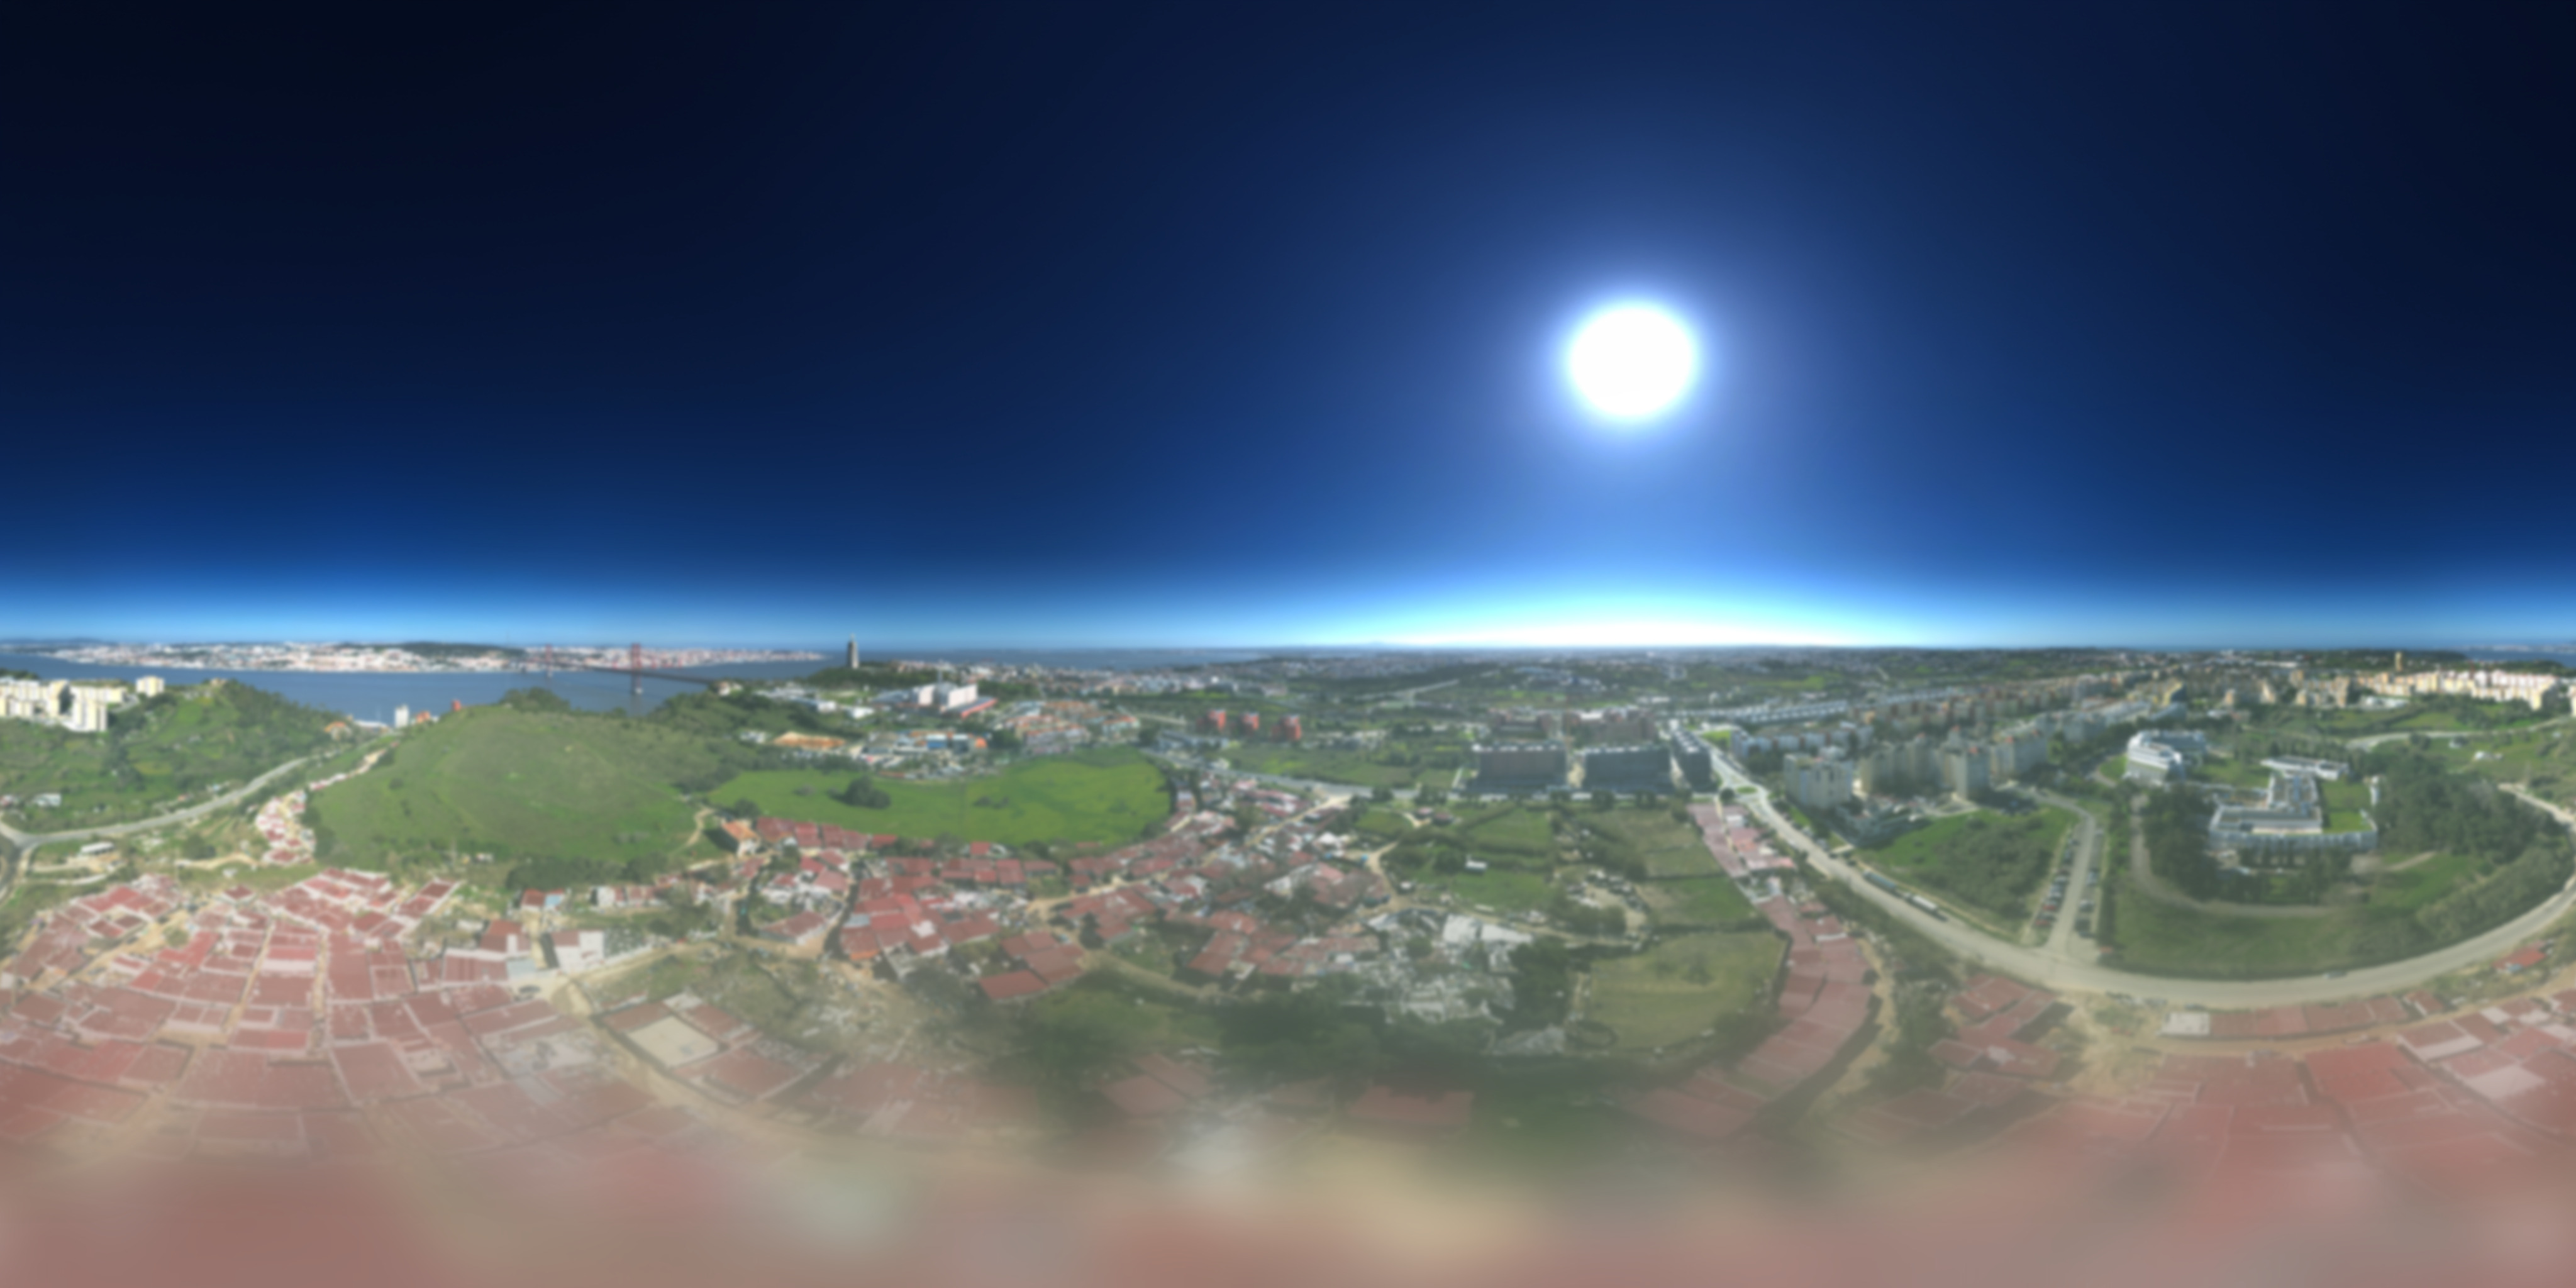
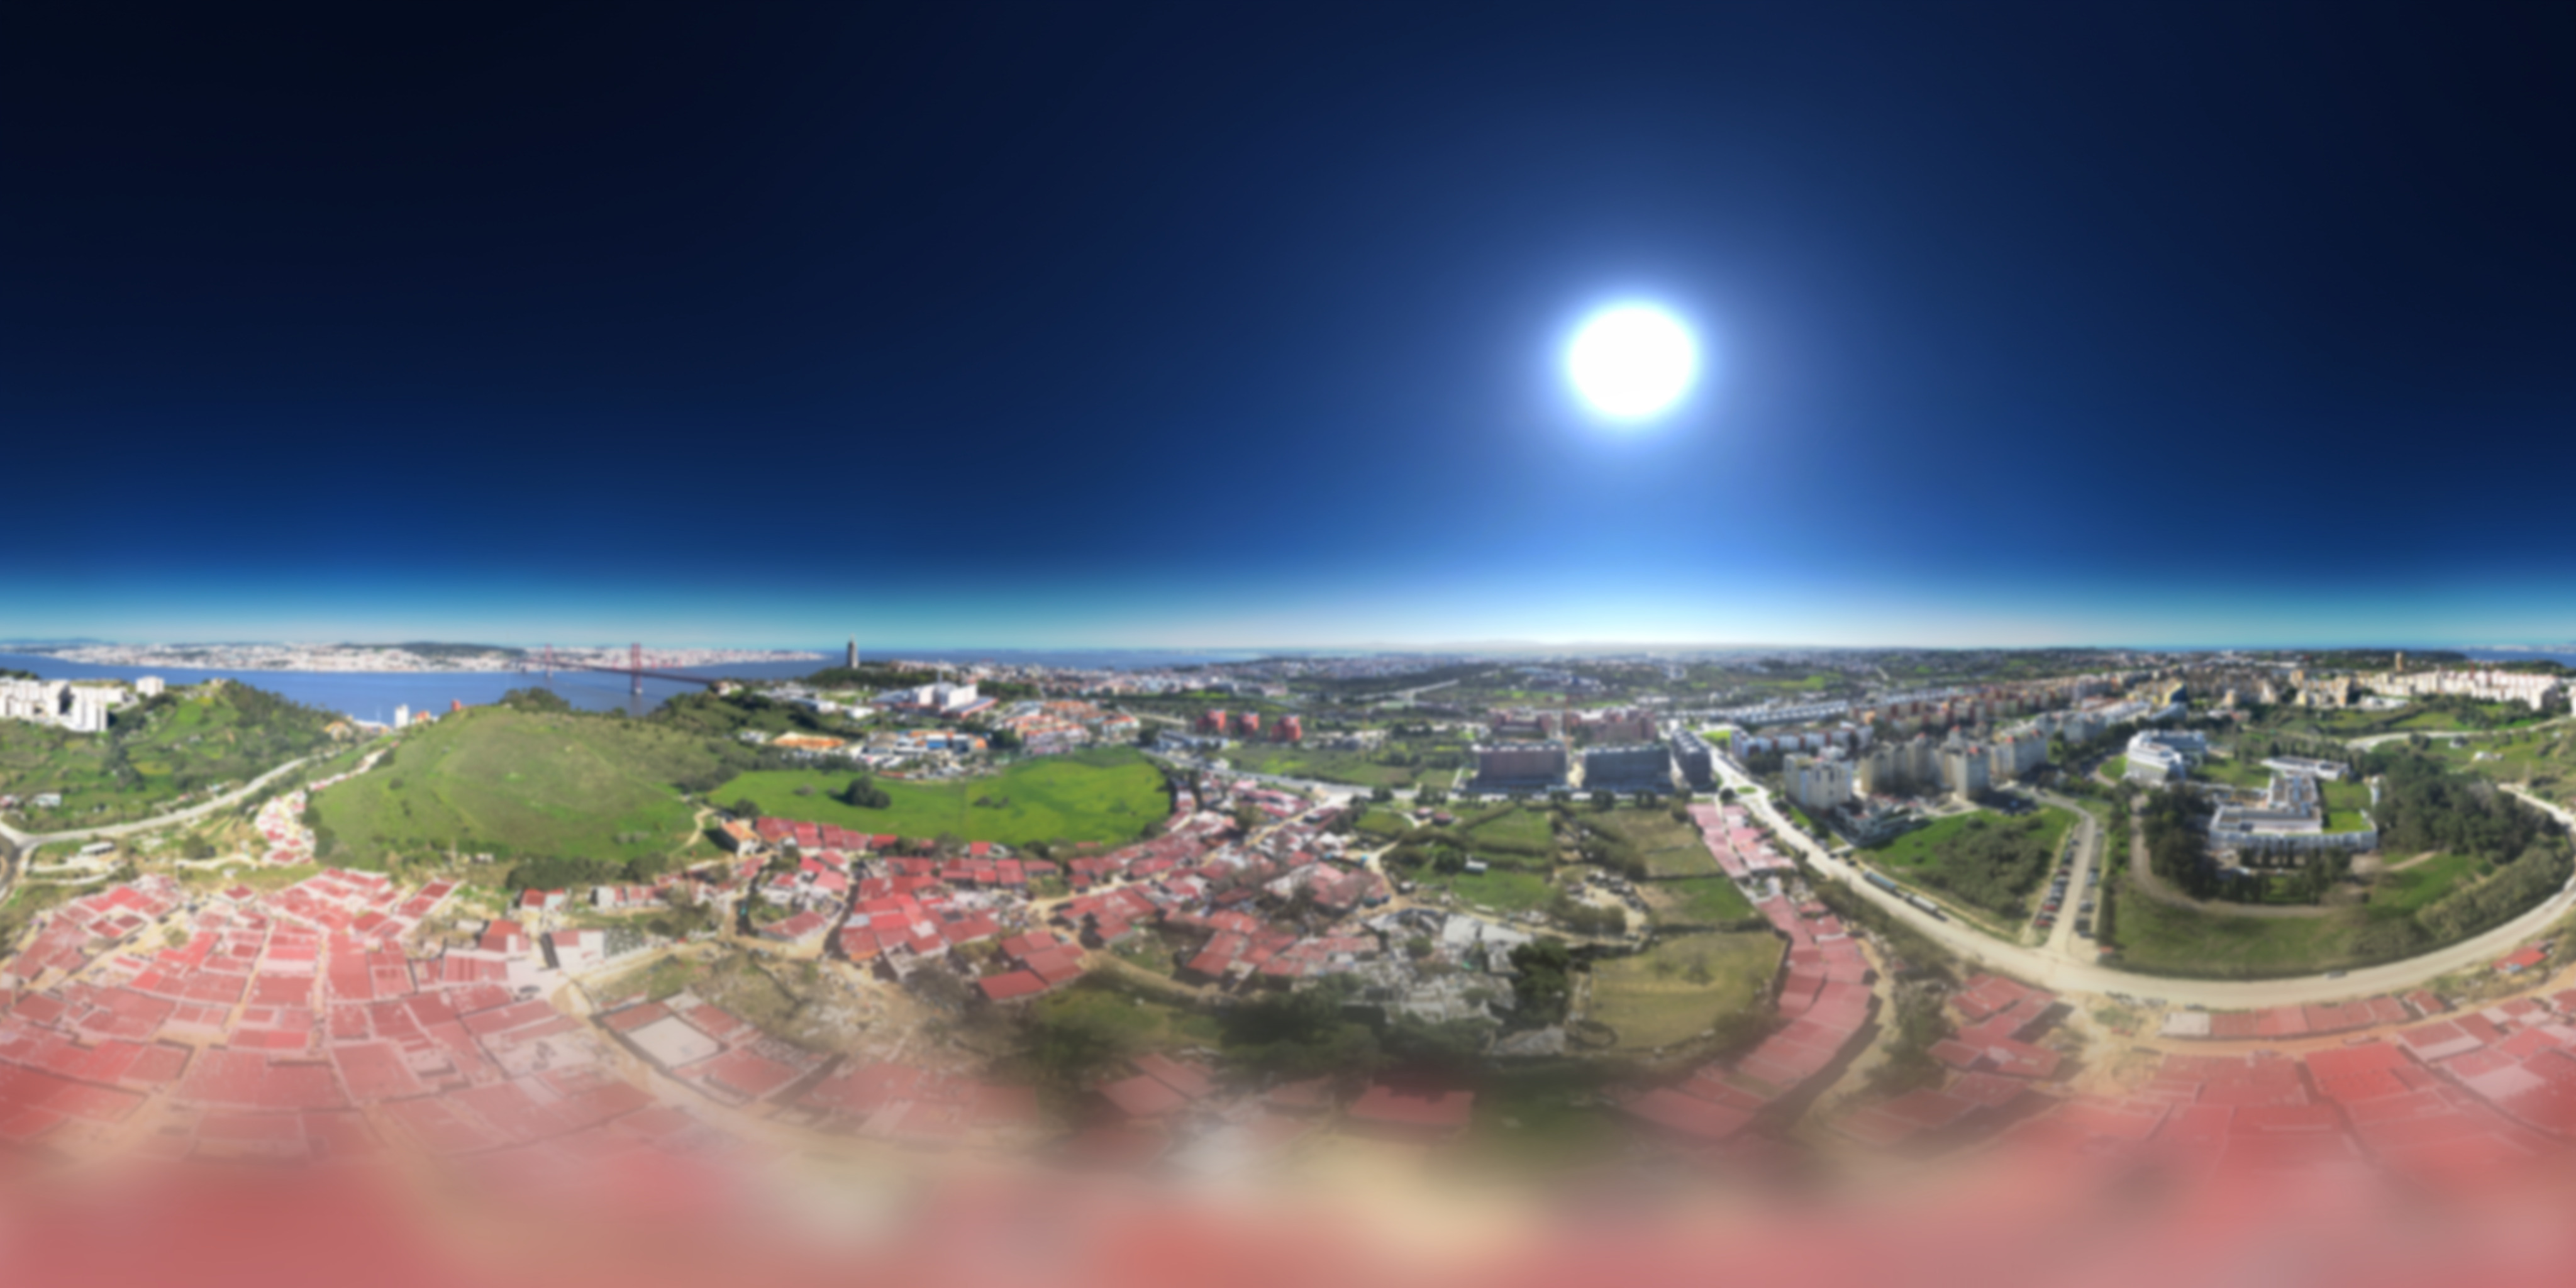
Contraste e gama do ceu corrigidos, e a cor deixa de ser imposta
A imagem anterior saia lavada, e a culpa era da conta: o brilho tinha sido
somado ja em espaco de ecra, o que levanta os pretos e tira o corpo a
imagem - o terreno ficava com desvio 27 quando o original tinha 38. Agora
a exposicao e feita em luz linear, onde aumentar o brilho e uma
multiplicacao honesta, e a gama e o contraste vem depois, que e onde o
olho os mede. O terreno fica com brilho 130 e desvio 63, mais contraste do
que a fotografia original tinha.

Deixa tambem de se impor a paleta do modelo canal a canal. Fui ver as
cores medidas de perto e o que se media eram as cores guardadas de cada
mancha, nao a imagem composta que aparece no ecra: uma amostra delas nao
tem sequer o vermelho dos telhados. Imposta a fotografia, dava verdes
fluorescentes e telhados rosados. Passa a corrigir-se so a luz, com a
mesma exposicao nos tres canais, e a fotografia mantem a sua cor - o rio
azul, a vegetacao verde e os telhados vermelhos.

Changed region(s): [[0.0, 0.4375, 1.0, 1.0], [0.875, 0.4688, 1.0, 0.5625], [0.5938, 0.5938, 0.625, 0.625]]

diff --git a/scripts/calibrar-ceu.py b/scripts/calibrar-ceu.py
@@ -1,32 +1,38 @@
 # -*- coding: utf-8 -*-
 """
-Prepara a panorâmica do Olho de Águia para servir de céu ao bairro.
+Prepara a panoramica do Olho de Aguia para servir de ceu ao bairro.
 
-Faz duas coisas à imagem, de uma vez por todas, para não custarem nada a
-quem visita o site:
+Faz duas coisas a imagem, de uma vez por todas, para nao custarem nada a
+quem visita o site.
 
- 1. Acerta a cor pela paleta do modelo do bairro. Os valores em ALVO_MEDIA
-    e ALVO_DESVIO foram medidos nas próprias manchas do modelo (o campo
-    sh0 dos ficheiros em public/splat), mais de um milhão delas. A
-    fotografia original é bem mais escura do que o modelo, e era isso que
-    fazia saltar à vista o sítio onde um acaba e a outra começa. A
-    correcção só entra a partir de pouco acima do horizonte: o azul lá em
-    cima não tem nada a ver com o chão do bairro.
+A primeira e corrigir-lhe a luz. A fotografia sai da maquina bem mais
+escura do que o modelo do bairro, e era isso que denunciava o sitio onde
+um acaba e a outra comeca. A conta e feita em luz linear, que e onde
+aumentar o brilho e uma multiplicacao honesta: somar brilho ja em espaco
+de ecra levanta os pretos e lava a imagem, que foi o erro da primeira
+tentativa. A gama e o contraste vem depois, ja em espaco de ecra, que e
+onde o olho os mede.
 
- 2. Embute desfoque, mais forte à medida que se desce. A metade de baixo
-    da fotografia estica sem remédio, por ter sido tirada de um ponto só,
-    e desfocada deixa de competir com o detalhe do modelo.
+So se lhe corrige a luz, nao a cor: a mesma exposicao para os tres canais.
+Chegou a experimentar-se impor a paleta do modelo canal a canal, medida
+nas manchas do proprio ficheiro do splat, mas o que se media eram as cores
+guardadas de cada mancha e nao a imagem composta que aparece no ecra - o
+resultado saia com verdes fluorescentes e telhados rosados.
+
+A segunda e embutir o desfoque, mais forte a medida que se desce. A metade
+de baixo estica sem remedio, por a panoramica ter sido tirada de um ponto
+so, e desfocada deixa de competir com o detalhe do modelo.
 
 Como usar, a partir desta pasta:
 
     ffmpeg -i "HDRi - Preenchimento Generativo.exr"            -vf "scale=4096:2048:flags=lanczos" -pix_fmt rgb24 ceu-8bit.png
-    python calibrar-ceu.py 0.75 3 48 2 ceu-olho-de-aguia-calibrado.jpg
+    python calibrar-ceu.py 130 62 1.08 3 48 2 ceu-olho-de-aguia-calibrado.jpg
 
-Os cinco números são: força da correcção de cor (1 = igualar por completo
-a paleta do modelo), desfoque junto ao horizonte, desfoque no fundo,
-desfoque no céu, e o nome do ficheiro a escrever.
+Os numeros sao: brilho pretendido no terreno (0 a 255), contraste
+pretendido, gama, desfoque junto ao horizonte, desfoque no fundo,
+desfoque no ceu, e o nome do ficheiro a escrever.
 
-O original de 228 MB está na nuvem, em
+O original de 228 MB esta na nuvem, em
 https://pub-0a409b596f304409941ca1f88f3b593b.r2.dev/HDRi%20-%20Preenchimento%20Generativo.exr
 """
 import sys
@@ -34,71 +40,83 @@ import numpy as np
 from PIL import Image, ImageFilter
 Image.MAX_IMAGE_PIXELS = None
 
-# Paleta do modelo, medida nas manchas do próprio ficheiro (sh0).
-ALVO_MEDIA = np.array([161.32, 167.81, 147.12], dtype=np.float32)
-ALVO_DESVIO = np.array([72.53, 63.63, 81.12], dtype=np.float32)
+ALVO_LUM = float(sys.argv[1]) if len(sys.argv) > 1 else 135.0
+ALVO_DESVIO = float(sys.argv[2]) if len(sys.argv) > 2 else 60.0
+GAMA = float(sys.argv[3]) if len(sys.argv) > 3 else 1.0
+DESF_HOR = float(sys.argv[4]) if len(sys.argv) > 4 else 3.0
+DESF_FUNDO = float(sys.argv[5]) if len(sys.argv) > 5 else 48.0
+DESF_CEU = float(sys.argv[6]) if len(sys.argv) > 6 else 2.0
+SAIDA = sys.argv[7] if len(sys.argv) > 7 else 'ceu-v3.jpg'
 
-# Até onde se puxa: 1 = igualar por completo a paleta do modelo.
-FORCA = float(sys.argv[1]) if len(sys.argv) > 1 else 1.0
-# Desfoque junto ao horizonte e no fundo, em pontos da imagem.
-DESFOQUE_HORIZONTE = float(sys.argv[2]) if len(sys.argv) > 2 else 3.0
-DESFOQUE_FUNDO = float(sys.argv[3]) if len(sys.argv) > 3 else 48.0
-DESFOQUE_CEU = float(sys.argv[4]) if len(sys.argv) > 4 else 2.0
-SAIDA = sys.argv[5] if len(sys.argv) > 5 else 'ceu-calibrado.jpg'
+def para_linear(x):
+    return np.where(x <= 0.04045, x / 12.92, ((x + 0.055) / 1.055) ** 2.4)
 
-def suave(borda0, borda1, x):
-    t = np.clip((x - borda0) / max(borda1 - borda0, 1e-6), 0.0, 1.0)
-    return t * t * (3 - 2 * t)
+def para_srgb(x):
+    x = np.clip(x, 0.0, 1.0)
+    return np.where(x <= 0.0031308, x * 12.92, 1.055 * np.power(x, 1 / 2.4) - 0.055)
 
-img = np.asarray(Image.open('ceu-8bit.png')).astype(np.float32)
+def contraste(x, k):
+    if abs(k) < 1e-4:
+        return x
+    return np.clip(0.5 + np.tanh(k * (x - 0.5)) / np.tanh(k / 2.0) * 0.5, 0.0, 1.0)
+
+def tratar(a, exposicao, k, gama):
+    """A exposicao e feita em luz linear, que e onde ela e uma multiplicacao
+    honesta: nao levanta os pretos nem lava a imagem. A gama e o contraste
+    vem depois, ja em espaco de ecra, que e onde o olho os mede."""
+    srgb = para_srgb(para_linear(a / 255.0) * exposicao)
+    if abs(gama - 1.0) > 1e-4:
+        srgb = np.power(np.clip(srgb, 0, 1), 1.0 / gama)
+    return contraste(srgb, k) * 255.0
+
+img = np.asarray(Image.open('ceu-8bit.png')).astype(np.float64)
 h, w, _ = img.shape
-linha = h // 2                      # o horizonte fica a meio
-v = (np.arange(h, dtype=np.float32) / (h - 1))[:, None, None]
+linha = h // 2
+cima, baixo = linha + int(h*12/180), linha + int(h*60/180)
+amostra = img[cima:baixo]
 
-# --- Cor -------------------------------------------------------------------
-# A referência é o terreno da fotografia: dos 12 aos 60 graus abaixo do
-# horizonte, que é a faixa que fica encostada ao modelo.
-faixa = img[linha + int(h*12/180): linha + int(h*60/180)]
-media = faixa.reshape(-1, 3).mean(axis=0)
-desvio = faixa.reshape(-1, 3).std(axis=0)
+def luminancia(a):
+    return 0.299*a[...,0] + 0.587*a[...,1] + 0.114*a[...,2]
 
-ganho = np.clip(ALVO_DESVIO / np.maximum(desvio, 1e-3), 0.7, 1.8)
-corrigida = (img - media) * ganho + ALVO_MEDIA
+# Uma so exposicao para os tres canais: a fotografia mantem a sua cor, so
+# se lhe corrige a luz. Procura-se a exposicao que acerta o brilho e o
+# contraste que acerta o desvio.
+exposicao, k = 1.0, 0.0
+for _ in range(60):
+    t = tratar(amostra, exposicao, k, GAMA)
+    lum = luminancia(t)
+    exposicao *= (ALVO_LUM / max(lum.mean(), 1e-3)) ** 1.2
+    exposicao = min(exposicao, 80.0)
+    k += float(np.clip((ALVO_DESVIO - lum.std()) / 70.0, -0.2, 0.2))
+    k = float(np.clip(k, 0.0, 5.0))
+t = tratar(amostra, exposicao, k, GAMA)
+lum = luminancia(t)
+print('exposicao %.2f   contraste %.3f   gama %.2f' % (exposicao, k, GAMA))
+print('faixa do terreno: luminancia %.1f (alvo %.0f)   desvio %.1f (alvo %.0f)' % (
+    lum.mean(), ALVO_LUM, lum.std(), ALVO_DESVIO))
+print('cor media  R %.1f  G %.1f  B %.1f' % tuple(t.reshape(-1,3).mean(axis=0)))
 
-# A correcção entra só a partir de pouco acima do horizonte: o azul lá em
-# cima não tem nada a ver com o chão do bairro e deve ficar como está.
-peso = suave(0.42, 0.56, v) * FORCA
-img = img * (1 - peso) + corrigida * peso
-img = np.clip(img, 0, 255)
+corrigida = tratar(img, exposicao, k, GAMA)
 
-# --- Desfoque --------------------------------------------------------------
-# Três versões da imagem, misturadas por altura: pouco no céu, um pouco mais
-# no horizonte, muito no fundo, que é onde a fotografia mais estica.
+def suave(a, b, x):
+    tt = np.clip((x - a) / max(b - a, 1e-6), 0.0, 1.0)
+    return tt * tt * (3 - 2 * tt)
+
+v = (np.arange(h, dtype=np.float64) / (h - 1))[:, None, None]
+peso = suave(0.42, 0.56, v)
+img = np.clip(img * (1 - peso) + corrigida * peso, 0, 255)
+
 def desfocar(a, raio):
     if raio <= 0.05:
         return a
-    margem = int(np.ceil(raio * 3))
-    largo = np.concatenate([a[:, -margem:], a, a[:, :margem]], axis=1)  # dá a volta
-    saida = np.asarray(
-        Image.fromarray(largo.astype(np.uint8)).filter(ImageFilter.GaussianBlur(raio)),
-        dtype=np.float32)
-    return saida[:, margem:margem + a.shape[1]]
+    m = int(np.ceil(raio * 3))
+    largo = np.concatenate([a[:, -m:], a, a[:, :m]], axis=1)
+    return np.asarray(Image.fromarray(largo.astype(np.uint8)).filter(
+        ImageFilter.GaussianBlur(raio)), dtype=np.float64)[:, m:m + a.shape[1]]
 
-leve = desfocar(img, DESFOQUE_CEU)
-medio = desfocar(img, DESFOQUE_HORIZONTE)
-forte = desfocar(img, DESFOQUE_FUNDO)
-
-peso_medio = suave(0.40, 0.52, v)
-peso_forte = suave(0.55, 0.95, v)
-saida = leve * (1 - peso_medio) + medio * peso_medio
-saida = saida * (1 - peso_forte) + forte * peso_forte
-
+leve, medio, forte = desfocar(img, DESF_CEU), desfocar(img, DESF_HOR), desfocar(img, DESF_FUNDO)
+pm, pf = suave(0.40, 0.52, v), suave(0.55, 0.95, v)
+saida = leve * (1 - pm) + medio * pm
+saida = saida * (1 - pf) + forte * pf
 Image.fromarray(np.clip(saida, 0, 255).astype(np.uint8)).save(SAIDA, quality=92, subsampling=0)
-
-# --- Relatório -------------------------------------------------------------
-final = np.asarray(Image.open(SAIDA)).astype(np.float32)
-f2 = final[linha + int(h*12/180): linha + int(h*60/180)].reshape(-1, 3)
-print('terreno antes  R %6.2f  G %6.2f  B %6.2f' % tuple(media))
-print('terreno depois R %6.2f  G %6.2f  B %6.2f' % tuple(f2.mean(axis=0)))
-print('modelo (alvo)  R %6.2f  G %6.2f  B %6.2f' % tuple(ALVO_MEDIA))
 print('guardado em', SAIDA)
